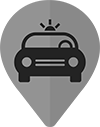
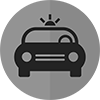
way

diff --git a/www/js/controllers/reportes.js b/www/js/controllers/reportes.js
@@ -1,0 +1,185 @@
+angular.module('starter.controllers')
+.controller('Reportes', function($scope,$rootScope,$timeout,$ionicScrollDelegate,socket,ionicMaterialMotion,ionicMaterialInk,Message) {
+	$scope.idioma=$rootScope.idioma;
+	$scope.cargando=true;
+	$scope.cargandoReportes=true;
+	/*$scope.$on('$ionicView.afterEnter',function(){
+		$scope.cargandoReportes=true;
+		$timeout(function(){
+		$ionicScrollDelegate.scrollTop();
+        $scope.loadContactos();
+		},100)
+	})
+	var getContactos=function(data){
+		socket.getSocket().removeListener("getContactos",getContactos)
+		$timeout(function(){
+			$ionicScrollDelegate.resize()
+			$scope.animate();
+		},300)
+		$timeout(function(){
+		$scope.cargandoReportes=false;
+		$scope.$broadcast('scroll.infiniteScrollComplete');
+		$scope.$broadcast('scroll.refreshComplete');
+		},100)
+	}
+	
+	var connect=function(){
+		socket.getSocket().removeListener("connect",connect)
+		$scope.cargandoReportes=true;
+		$ionicScrollDelegate.scrollTop();
+        $scope.loadContactos();		
+	}
+	var connectError=function(){
+		socket.getSocket().removeListener("connect_error",connectError);
+	}	
+	$scope.loadContactos=function(){
+		socket.getSocket().removeListener("getContactos",getContactos)
+		socket.getSocket().removeListener("connect",connect)
+		socket.getSocket().removeListener("connect_error",connectError);
+		socket.getSocket().on("getContactos",getContactos)
+		socket.getSocket().on("connect",connect)
+		socket.getSocket().on("connect_error",connectError);
+		if(socket.isConnected())Contactos.getContactos();
+		else{ 
+			getContactos([])
+			$scope.moreData=false;
+		}
+	}
+	
+	$scope.animate=function(){
+		
+		// Set Motion
+		ionicMaterialMotion.fadeSlideInRight();
+		// Set Ink
+		ionicMaterialInk.displayEffect();
+	}
+	
+	if($rootScope.contactos.length>0){
+		$timeout(function(){
+			$scope.animate();
+		},300)
+		
+	}
+	$scope.agregarContacto=function(res,correo){
+		Message.hideLoading();
+		switch(res){
+			case null: console.log("error")
+			break;
+			case 1:Message.alert($rootScope.idioma.Contactos[1],correo+$rootScope.idioma.Contactos[4],function(){
+				$scope.loadContactos();
+			})
+			break;
+			case 2:Message.alert($rootScope.idioma.Contactos[1],correo+$rootScope.idioma.Contactos[6],function(){})
+			break;
+			case 3:Message.alert($rootScope.idioma.Contactos[1],correo+$rootScope.idioma.Contactos[5],function(){})
+			break;
+			default:Message.alert($rootScope.idioma.Contactos[1],$rootScope.idioma.General[7],function(){})
+			break;
+		}
+	}
+	$scope.agregaContacto=function(){
+		if(socket.isConnected())
+		Message.prompt($rootScope.idioma.Contactos[1],$rootScope.idioma.Contactos[2],function(res){
+			if(res){
+				if(res.toLowerCase()==$rootScope.Usuario.Correo.toLowerCase())
+					Message.alert($rootScope.idioma.Contactos[1],$rootScope.idioma.Contactos[3],function(){})
+				else{
+					if(socket.isConnected()){
+					Message.showLoading($rootScope.idioma.Contactos[21]);
+					socket.getSocket().removeListener("agregarContacto",$scope.agregarContacto)
+					socket.getSocket().on("agregarContacto",$scope.agregarContacto)
+					socket.getSocket().emit("agregarContacto",$rootScope.Usuario.Id,res)
+					}else Message.alert($rootScope.idioma.Contactos[1],$rootScope.idioma.General[7],function(){})
+				}
+			}else{
+				Message.alert($rootScope.idioma.Contactos[1],$rootScope.idioma.Registro[10],function(){})
+			}
+		},"email",$rootScope.idioma.Login[2])
+		else Message.alert($rootScope.idioma.Contactos[1],$rootScope.idioma.General[7],function(){})
+	}
+	$scope.abreContacto=function(contacto){
+		var buttons=[];
+		if(contacto.Estatus==1){
+		//opciones regulares
+		buttons.push({text:$rootScope.idioma.Llamada[14]+contacto.Correo,funcion:$scope.llamaPersona,data:contacto})
+		buttons.push({text:$rootScope.idioma.Contactos[11],funcion:$scope.eliminarContacto,data:contacto})
+		}
+		else{
+		   	if(contacto.Tipo==1){
+		   	//aceptar / rechazar
+			buttons.push({text:$rootScope.idioma.Contactos[20],funcion:$scope.cancelarSolicitud,data:contacto})
+			}else{
+			//eliminar
+			buttons.push({text:$rootScope.idioma.Contactos[13],funcion:$scope.aceptarSolicitud,data:contacto})
+			buttons.push({text:$rootScope.idioma.Contactos[20],funcion:$scope.cancelarSolicitud,data:contacto})
+			}
+		}
+		Message.showActionSheet(null,buttons,null,$rootScope.idioma.General[6],function(index,res){
+			if(index>=0){
+				if($rootScope.internet.state){
+				res.funcion(res.data);
+				}else{
+				Message.alert($rootScope.idioma.Contactos[18],$rootScope.idioma.General[7],function(){})
+				}
+			}
+		})
+	}
+	$scope.eliminarContacto=function(){
+	}
+	$scope.llamaPersona=function(data){
+		
+		if(socket.isConnected()){
+			$rootScope.llamada.Correo=data.Correo;
+			$rootScope.llamada.Usuario=data.IdUsuario;
+			Llamada.abre(true);
+		}else{
+			Message.alert($rootScope.idioma.Llamada[6],$rootScope.idioma.Llamada[7]+data.Correo,function(){})
+		}
+		
+	}
+	var contactoEliminado=function(data){
+		Message.hideLoading();
+		socket.getSocket().removeListener("eliminaPersona",contactoEliminado)
+		Message.alert($rootScope.idioma.Notificaciones[7],data+$rootScope.idioma.Contactos[15],function(){
+			$scope.loadContactos();
+		})
+	}
+	$scope.cancelarSolicitud=function(data){
+			Message.confirm($rootScope.idioma.Notificaciones[7],$rootScope.idioma.Contactos[19]+data.Correo+"?",function(res){
+				if(socket.isConnected()) {
+					socket.getSocket().removeListener("eliminaPersona",contactoEliminado)
+					socket.getSocket().on("eliminaPersona",contactoEliminado)
+					socket.getSocket().emit("eliminaPersona",data.Correo,$rootScope.Usuario.Id)
+					Message.showLoading($rootScope.idioma.General[8]);
+				}else Message.alert($rootScope.idioma.Notificaciones[7],$rootScope.idioma.General[7],function(){})
+			},null,null,false)
+	}
+	$scope.eliminarContacto=function(data){
+		Message.confirm($rootScope.idioma.Notificaciones[11],$rootScope.idioma.Contactos[12]+data.Correo+"?",function(res){
+			if(socket.isConnected()) {
+				socket.getSocket().removeListener("eliminaPersona",contactoEliminado)
+				socket.getSocket().on("eliminaPersona",contactoEliminado)
+				socket.getSocket().emit("eliminaPersona",data.Correo,$rootScope.Usuario.Id)
+				Message.showLoading($rootScope.idioma.General[8]);
+			}else Message.alert($rootScope.idioma.Notificaciones[11],$rootScope.idioma.General[7],function(){})
+		},null,null,false)
+	}
+	$scope.aceptarSolicitud=function(data){
+		Message.confirm($rootScope.idioma.Notificaciones[7],$rootScope.idioma.Contactos[14]+data.Correo+"?",function(res){
+			if(socket.isConnected()) {
+				socket.getSocket().removeListener("aceptaPersona",aceptaContacto)
+				socket.getSocket().on("aceptaPersona",aceptaContacto)
+				socket.getSocket().emit("aceptaPersona",data.Correo,$rootScope.Usuario.Id)
+				Message.showLoading($rootScope.idioma.General[9]);
+			}else Message.alert($rootScope.idioma.Notificaciones[7],$rootScope.idioma.General[7],function(){})
+		},null,null,false)
+	}
+	var aceptaContacto=function(data){
+		Message.hideLoading();
+		socket.getSocket().removeListener("aceptaPersona",aceptaContacto)
+		Message.alert($rootScope.idioma.Notificaciones[7],data+$rootScope.idioma.Contactos[4],function(){
+			$scope.loadContactos();
+		})
+	}
+*/
+})

diff --git a/www/css/style.css b/www/css/style.css
@@ -776,18 +776,27 @@ ion-side-menu-content{
 	transform:translate3d(0,100vh,0);
 }
 .mapa-descripcion-evento-icono{
-	    width: 10vh;
+	width: 10vh;
     height: 10vh;
     border-radius: 100% !important;
-    padding: 1vh !important;
-    background: #F5F5F5;
-    border: solid 1vh #059DB5 !important;
-    top: -6vh;
+    padding: 0.8vh !important;
+    background: none;
+    top: -5vh;
     position: absolute;
     left: 0px;
     right: 0px;
     margin: auto;
 	
+}
+.mapa-descripcion-evento-icono-back{
+	    position: absolute;
+    background: #F5F5F5;
+    width: 100%;
+    height: 100%;
+    border-radius: 100%;
+    top: 0px;
+    left: 0px;
+    border: solid 1vh #059DB5;
 }
 .mapa-descripcion-evento-icono > img{
 	position:relative;
@@ -1579,4 +1588,31 @@ ionic-datepicker{
 	opacity: 0.9;
 }
 .mapa-descripcion-evento-rating.uber{
+}
+.contactos-agrega-reporte{
+	position: absolute;
+    bottom: 2vh;
+    right: 2vh;
+    width: 9vh;
+    height: 9vh;
+    border-radius: 100% !important;
+    background: #D0CFCF;
+    font-size: 5vh;
+    color: #242424;
+	min-width: 9vh;
+    min-height: 9vh;
+    max-width: 9vh;
+    max-height: 9vh;
+	padding: 0px !important;
+    text-align: center;
+}
+.contactos-agrega-reporte>div {
+    margin: 0 !important;
+    padding: 0 !important;
+    width: 100%;
+    height: 100%;
+    background: #242424;
+    -webkit-mask-position: center;
+    -webkit-mask-size: 70%;
+    -webkit-mask-repeat: no-repeat;
 }

diff --git a/www/screens/home.html b/www/screens/home.html
@@ -6,15 +6,19 @@
       <button class="logo-menu " ng-click="conecta()">
       	<img src="img/logo_txt.png" height="100%">
         </button>
+        <button class="button button-clear boton-menu icono-header  pull-right {{seccion==4?'seleccionado':''}}" ng-click="cambiaPantalla(4)">
+        	<div style="-webkit-mask-image:url(img/iconos/barra/reportes.png) !important;"></div>
+           </button>
        <button class="button button-clear boton-menu icono-header  pull-right {{seccion==3?'seleccionado':''}}" ng-click="cambiaPantalla(3)">
         	<div style="-webkit-mask-image:url(img/iconos/barra/personas.png) !important;"></div>
+           </button>
         <button class="button button-clear boton-menu icono-header  pull-right {{seccion==2?'seleccionado':''}}" ng-click="cambiaPantalla(2)" >
         	<div style="-webkit-mask-image:url(img/iconos/barra/notificaciones.png) !important;"></div>
         </button>
         <button class="button button-clear boton-menu icono-header  pull-right {{seccion==1?'seleccionado':''}}" ng-click="cambiaPantalla(1)">
         	<div style="-webkit-mask-image:url(img/iconos/barra/mapa.png) !important;"></div>
         </button>
-        </button>
+        
 	</div>
     <disable-screen class="cover"></disable-screen>
     <ion-nav-view name="contenido-home" class="contenido-home"></ion-nav-view>

diff --git a/www/screens/mapa.html b/www/screens/mapa.html
@@ -29,8 +29,10 @@
     <div class="mapa-descripcion-evento-cover"></div>
     <div class="mapa-descripcion-evento-contenedor">
     	<button class="mapa-descripcion-evento-icono">
-    		<img ng-src="img/iconos/mapa/marcadores/{{selectedMarker.Asunto}}.png" height="100%" ng-show="selectedMarker.Asunto">
-            <img class="iconMarker" style="-webkit-mask-image: url('{{selectedMarker.data.icon}}');background: #059DB5;height: 90%;width: 90%;" ng-show="!selectedMarker.asunto">
+    		<img ng-src="img/iconos/notificaciones/{{selectedMarker.Asunto}}.png" height="100%" ng-show="selectedMarker.Asunto">
+             <div class="mapa-descripcion-evento-icono-back ng-hide" ng-show="!selectedMarker.Asunto"></div>
+            <img class="iconMarker" style="-webkit-mask-image: url('{{selectedMarker.data.icon}}');background: #059DB5;height: 60%; width: 60%;position: absolute;top: 0px;bottom: 0px;margin: auto;left: 0px;right: 0px;" ng-show="!selectedMarker.Asunto">
+           
         </button>
         <button class="mapa-descripcion-evento-close">
         	<i class="icon ion-chevron-down" ></i>

diff --git a/www/js/app.js b/www/js/app.js
@@ -148,6 +148,16 @@ angular.module('starter', ['ionic', 'starter.controllers','ionic-material', 'sta
             },
         }
     })
+	.state('app.home.reportes', {
+        url: '',
+		id:4,
+        views: {
+            'contenido-home': {
+                templateUrl: 'screens/reportes.html',
+				controller: 'Reportes'
+            },
+        }
+    })
 	$urlRouterProvider.otherwise('/app/login');
 })
 /*

diff --git a/www/screens/reportes.html b/www/screens/reportes.html
@@ -1,0 +1,7 @@
+<ion-view  class="view-seccion" hide-nav-bar="false" hide-back-button="true" can-swipe-back="false"> 
+	<ion-content delegate-handle="reportes" padding="false" >
+		
+        
+    </ion-content>
+    <button class="contactos-agrega-reporte" ng-click="agregaReporte()"><div style="-webkit-mask-image:url(img/iconos/add-reporte.png) !important;"></div></button>
+</ion-view>

diff --git a/www/index.html b/www/index.html
@@ -42,6 +42,7 @@
     <script src="js/controllers/controls.js"></script>
     <script src="js/controllers/filtros.js"></script>
      <script src="js/controllers/auto.js"></script>
+     <script src="js/controllers/reportes.js"></script>
     <!--services-->
     <script src="js/services/mapa.js"></script>
     <script src="js/services/ubicacion.js"></script>

diff --git a/www/js/controllers/home.js b/www/js/controllers/home.js
@@ -17,6 +17,8 @@ angular.module('starter.controllers')
 			break;
 			case 3:$state.go("app.home.contactos")
 			break;
+			case 4:$state.go("app.home.reportes")
+			break;
 		}
 		
 	}
